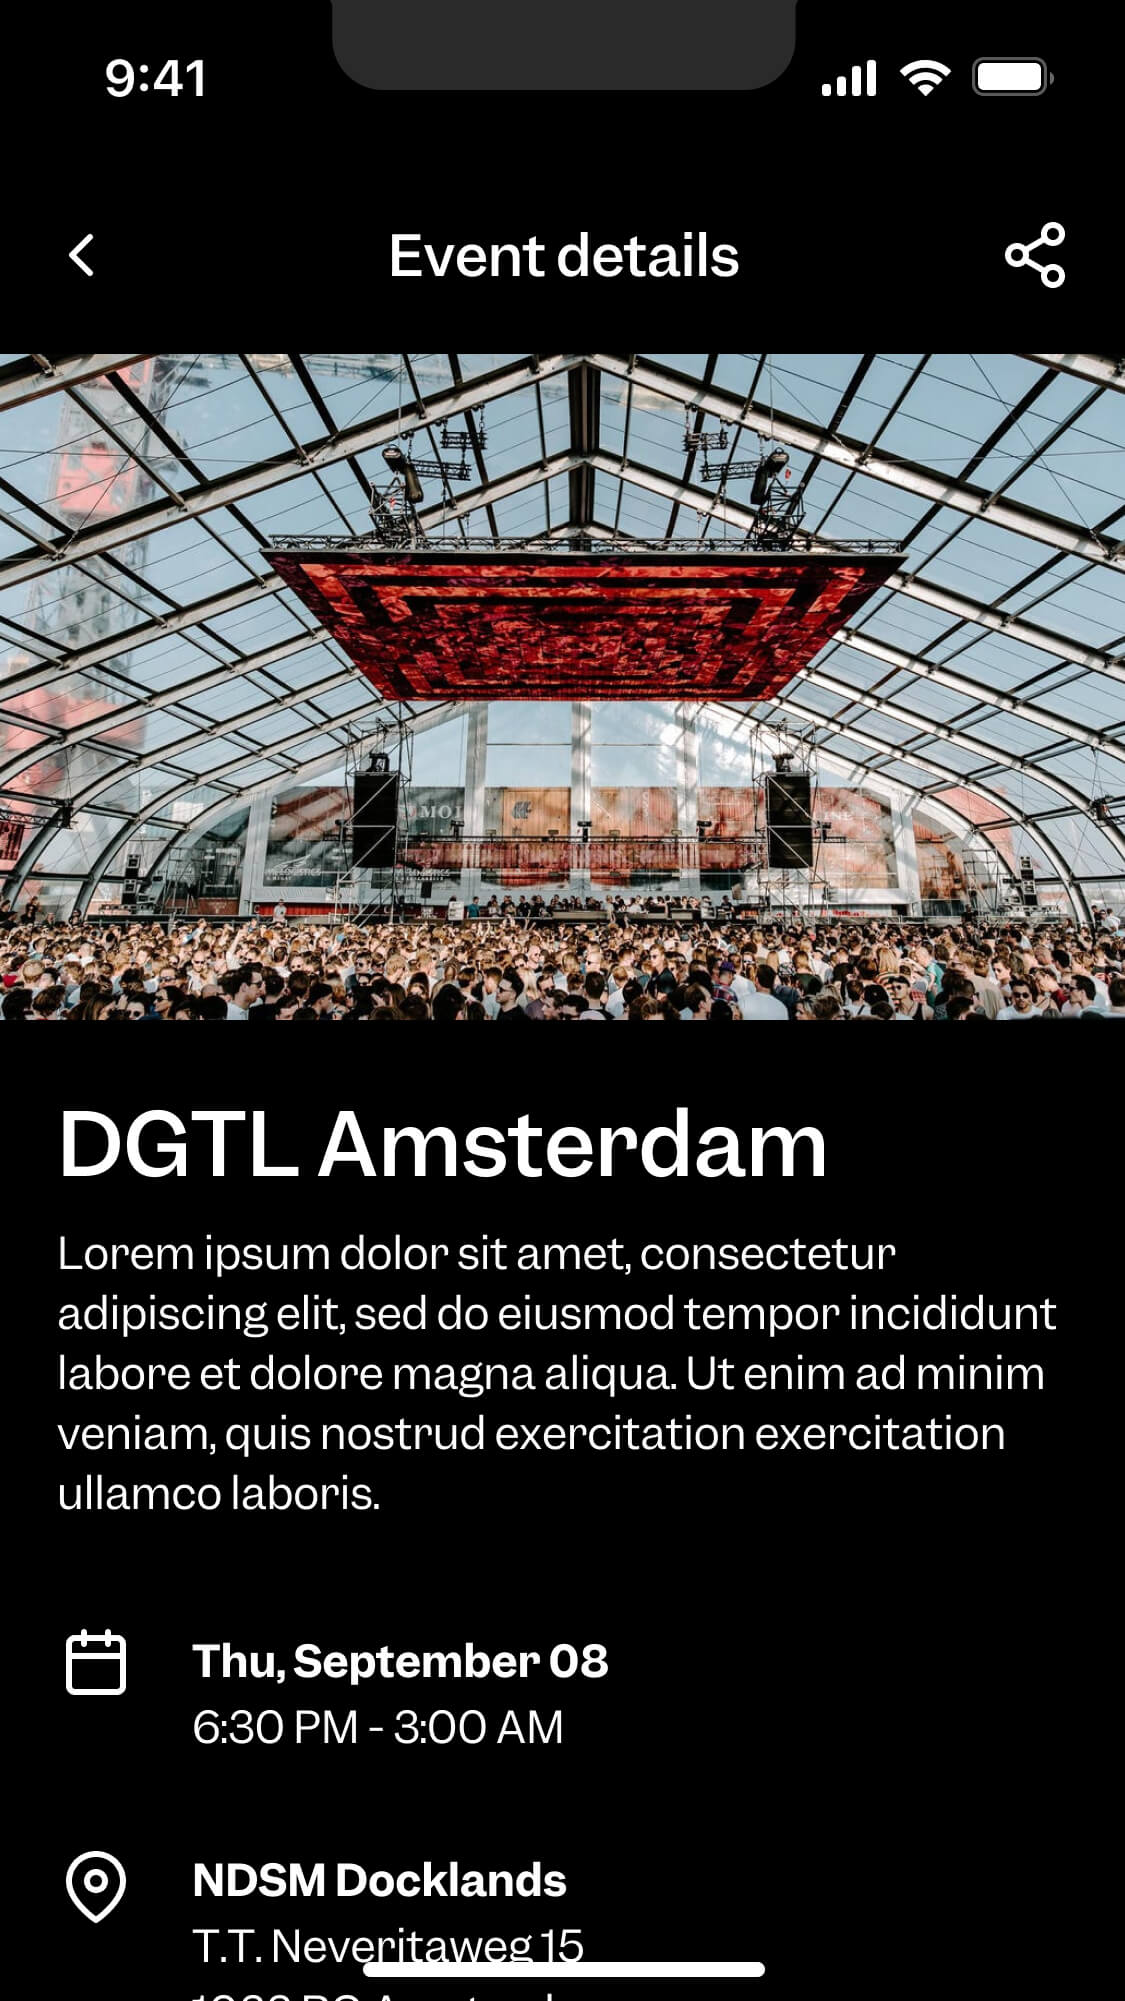
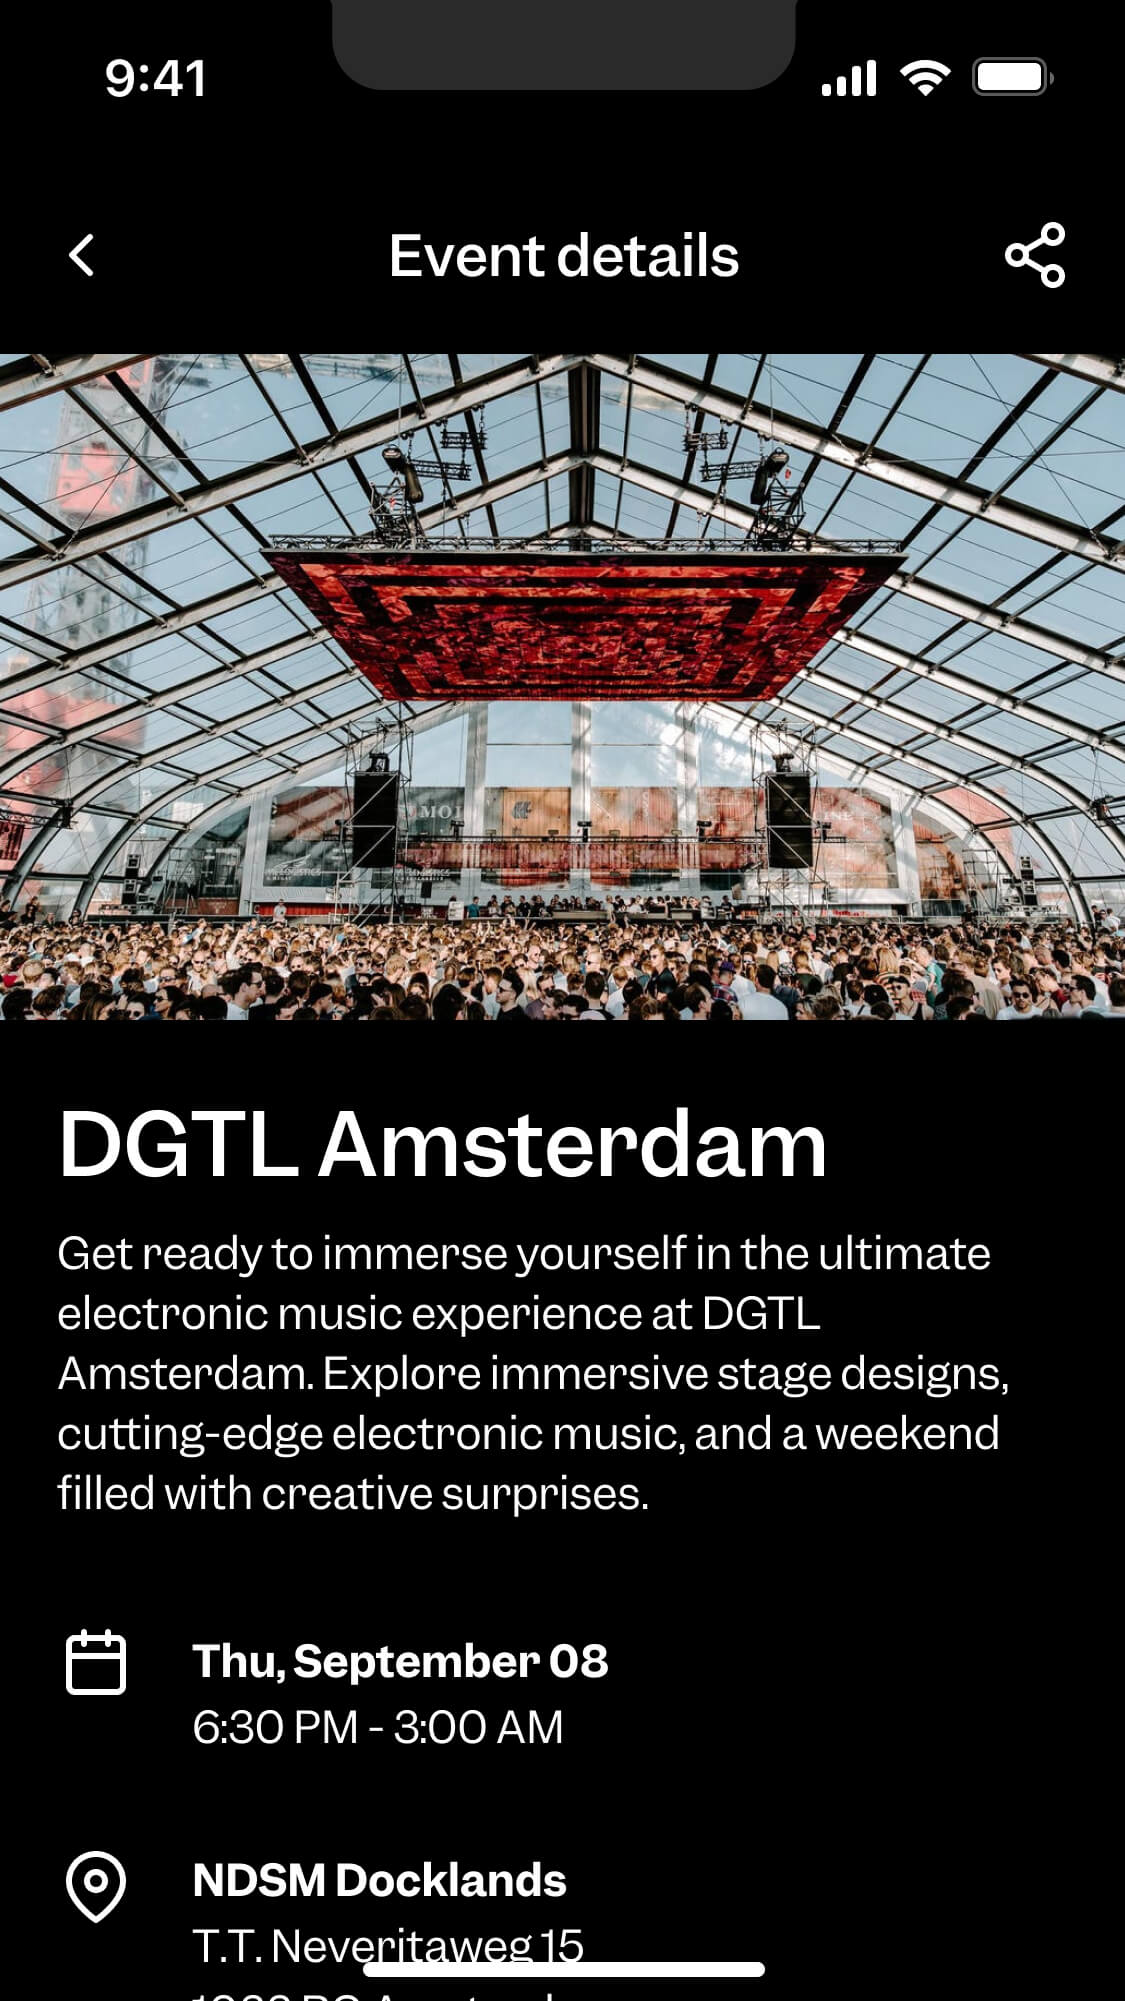
fix: new images removing lorem ipsum.

Changed region(s): [[0.0311, 0.6197, 0.9333, 0.7746]]

diff --git a/src/components/Menu.svelte b/src/components/Menu.svelte
@@ -54,7 +54,7 @@
     padding: 0 60px;
     box-sizing: border-box;
     position: fixed;
-    z-index: 1;
+    z-index: 99999;
   }
 
   #portfolio-user-name {
